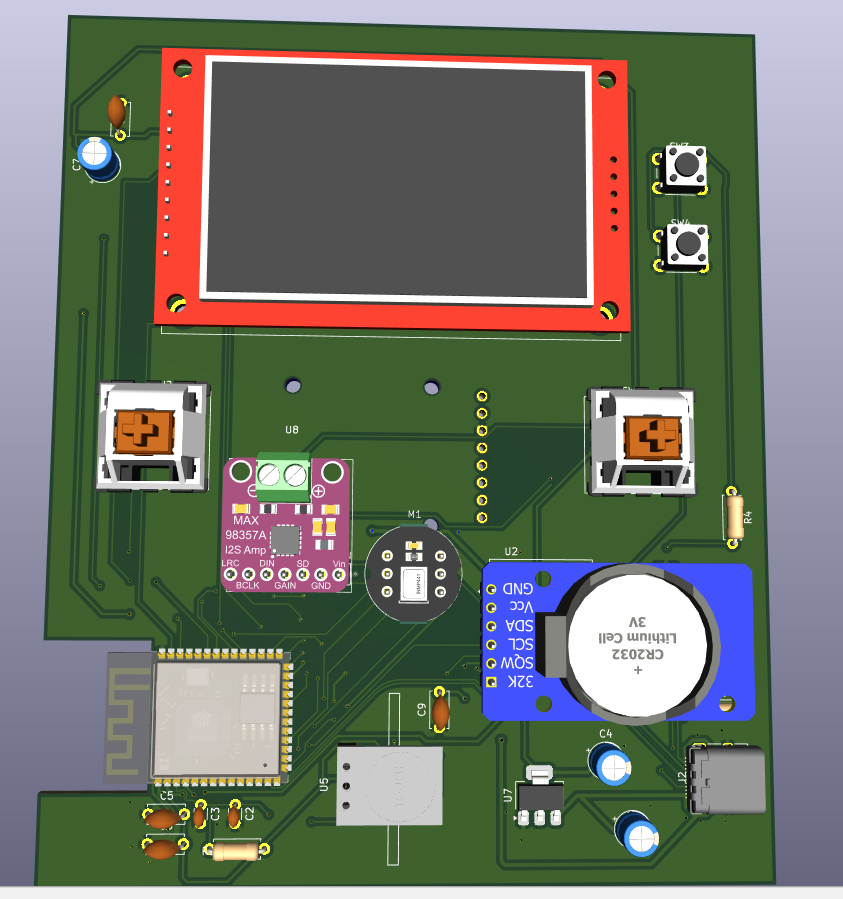
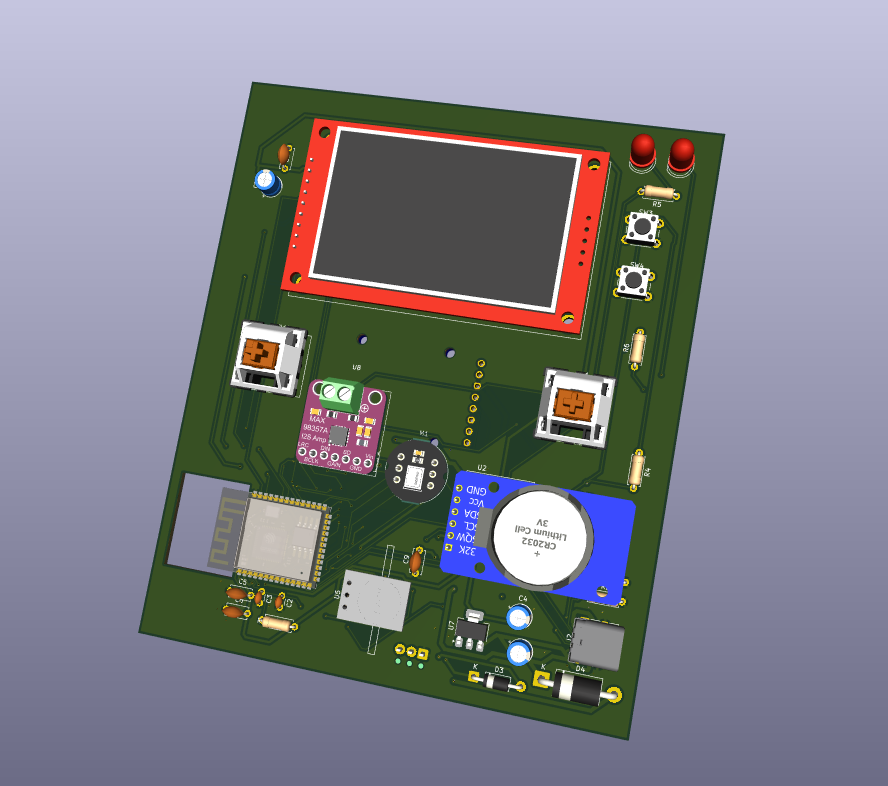
Readme Update

diff --git a/README.md b/README.md
@@ -1,6 +1,6 @@
-# Near365 Gift 🎁
+# Wacky and cute-( self claimed :} ) Music Player 
 
-**Near365** is a smart, interactive daily gift device powered by an ESP32-S3. Designed as a personalized keepsake, it delivers unique music, affirmations, and helps brighten up someone's day, every single day pre-programmed schedule.
+**Music Player v1** is a interactive  media device (media form: music, voice recording, text, gifs? maybe video) powered by an ESP32-S3. Designed as a personalized gift,to play unique music, affirmations,  every single day pre-programmed schedule. v2 will have an APi endpoint to post voice recordings over the internet.
 
 ---
 
@@ -29,13 +29,17 @@ A custom 2-layer PCB design from kicad.
 ![PCB Layout](images/pcb.png)
 ![PCB Layout](images/pcb3dmodel.png)
 
+
+
+### Power Board
+![Power PCB](images/power_pcb.png)
+![Power traces](images/power_route.png)
 ### 3D Model for Case
 A custom 3d model case from fusion 360
 
 ![3D Model Render](images/3dcasefront.png)
 ![3D Model Render](images/3dcaseback.png)
-
-
+![3D Model Render](images/backplate_3dmodel.png)
 ---
 ##  Bill of Materials (BOM)
 
@@ -51,17 +55,27 @@ A custom 3d model case from fusion 360
 | **Microphone** | INMP441 I2S Digital Omnidirectional Mic      | 1        |
 | **RTC Module** | DS3231 High-Precision I2C RTC                | 1        |
 | **Storage Card** | 16GB Micro SD Card       | 1        |
-
+| **BMS Board** | Custom made battery management system      | 1        |
 ---
-Find the full BOM in the CSV file: [near365.csv](./near365.csv)
+
 
 ##  Project Structure
 
-* `/pages`: Contains the class logic for each UI state (`Daily`, `Music`, `Record`, `History`).
-* `/assets`: Fonts (`ArcadePix`), icons, and images.
+* `firmware/pages`: Contains the class logic for each UI state (`Daily`, `Music`, `Record`, `History`).
 * `main.py`: The primary async loop and state machine handler.
 * `setup.py`: Hardware initialization and pin mapping.
 * `master.json`: The central database for the daily gift schedule.
+
+
+
+## File Structure:
+
+* `/3d Model`: Contains fusion and 3d printing files for the case.
+* `/firmware`: Contains the code
+* `Kicad`: Kicad files (both power and main board)
+       * `Power_kicad`: Custom made bms system kicad project
+       * `main_kicad`: main pcb kicad project
+* `/images`: For images of README.md
 
 ---
 
